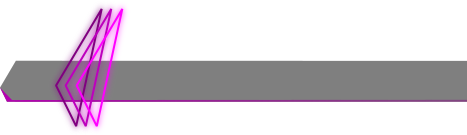
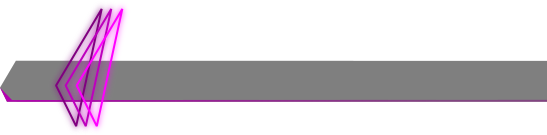
Degugging, post deployment

diff --git a/src/assets/styles.css b/src/assets/styles.css
@@ -135,6 +135,13 @@ body {
     font-variant:small-caps;
     
 }
+.nav .signout{
+    color: white;
+    cursor: pointer;
+    position: absolute;
+    left: 1000px;
+    top: 5px;
+}
 .nav a{
     color:#00ff80;
     text-decoration: none;
@@ -142,7 +149,7 @@ body {
 }
 .nav a:hover{
     color: #7799FF;
-    transition: color .35s ease-in-out;
+    transition: color .25s ease-in-out;
     animation-name: flash-glow;
     animation-duration: .5s;
     animation-iteration-count: 1;
@@ -303,7 +310,7 @@ body {
     background: transparent;
     width: 307px;
     height: 195px;
-    z-index:99;
+    z-index:30;
 }
 .image1 {
     top: 194px;
@@ -527,7 +534,7 @@ body {
     left: -20px;
 }
 .engines .sys-add-button{
-    top: -68px;
+    top: -64px;
     left: -20px;
 }
 .hull .sys-add-button{
@@ -914,7 +921,7 @@ body {
     position: relative;
     width: 45px;
     height: 26px;
-    z-index: 999;
+    z-index: 199;
     left: 30px;
     top: 12px;
 }
@@ -1374,7 +1381,7 @@ body {
 .char-abilities{
     position: relative;
     top: -30px;
-    left: 115px;
+    left: 55px;
 }
 .char-abilities .ability{
     display: flex;
@@ -1385,7 +1392,6 @@ body {
     background-repeat: no-repeat;
     min-height: 135px;
     width: 543px;
-    
     color: white;
     font-family: Zekton;
     font-variant:small-caps;
@@ -1417,7 +1423,7 @@ body {
 .char-ability-add-button button{
     position:absolute;
     top:-105px;
-    left:114px;
+    left:54px;
     border: none;
     background: transparent;
     z-index: 1;
@@ -1509,7 +1515,7 @@ body {
     left: 497px;
     width: 45px;
     height: 26px;
-    z-index: 999;
+    z-index: 199;
 }
 .char-notes .notes-add-button button{
     border: none;
@@ -1545,7 +1551,7 @@ body {
     width: 100%;
     height: 100%;
     background-color: rgba(0, 0, 0, 0.5);
-    z-index: 999;
+    z-index: 399;
     display: flex;
     justify-content: center;
     align-items: center;
@@ -1565,7 +1571,7 @@ body {
   }
   
   .edit-item {
-    z-index: 1000;
+    z-index: 500;
     background-color: #000000;
     border: 2px solid purple;
     color:#00ff80;

diff --git a/src/views/CharMenu.vue b/src/views/CharMenu.vue
@@ -9,10 +9,9 @@
       <div class="nav-item">
         <router-link to="/add">+New</router-link>
       </div>
-      <button class="button" @click="spaStore.deleteAll">
-          Clear Char List
-      </button>
-      <button @click="handleSignOut" v-if="isLoggedIn">Sign Out</button>
+      <a @click="handleSignOut" class="signout">
+        Sign Out
+      </a>
   </div>
 </template>
 
